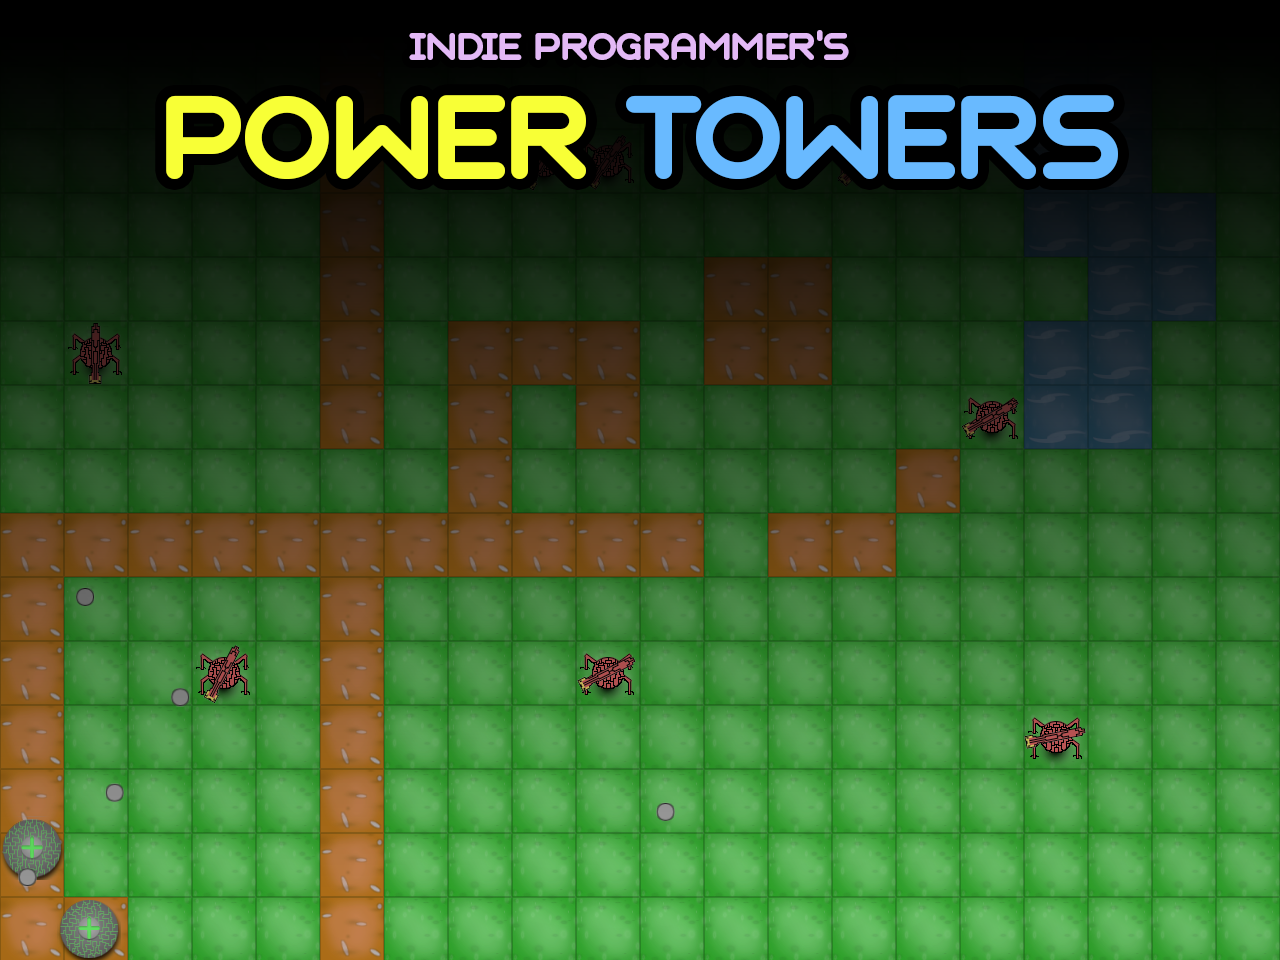
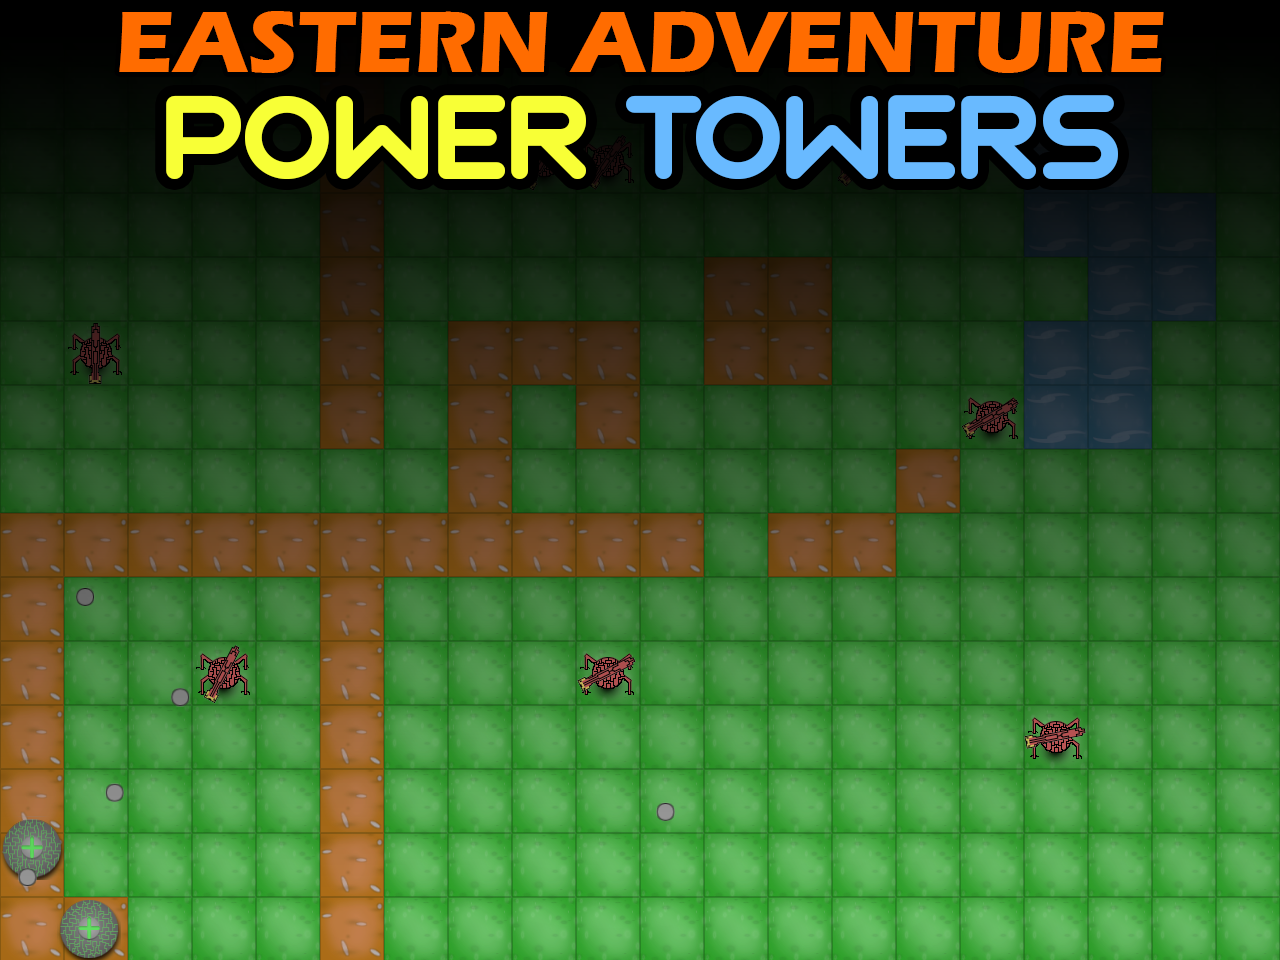
Edited README

Changed region(s): [[0.0938, 0.0, 0.9062, 0.0938]]

diff --git a/README.md b/README.md
@@ -1,5 +1,6 @@
-# Keep the plebs out (KTPB)
+# Eastern Adventure TD
 Tower defence game, using light weight openGL and slick.
 
-This is **WIP**, I'm yet to add much more content and first priority is to fix pathing.
-I'll also be adding ALOT more code comments as well as detailed comments to explain how it works out.
+For more instructions and details check out the Wiki.
+
+This is game is still **WIP**, I'm yet to add much more content and first priority is to add enemy health.
